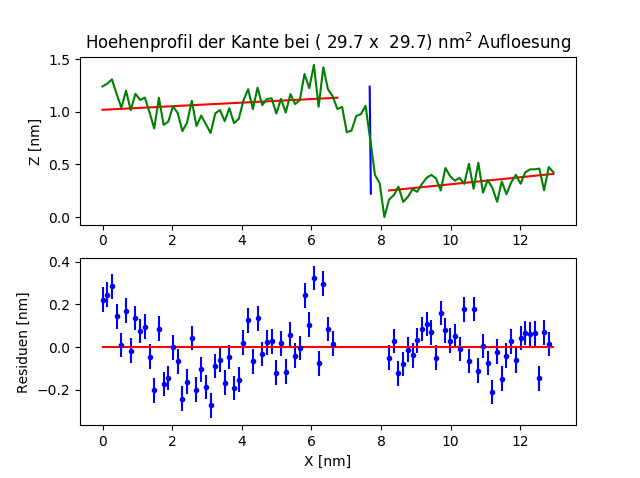
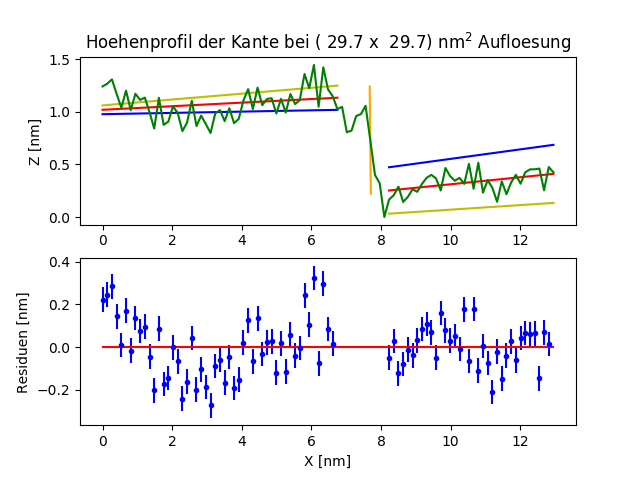
Kante Auswertung fertig

diff --git a/STM/Auswertung/Kante.py b/STM/Auswertung/Kante.py
@@ -23,7 +23,7 @@ for i in range(len(data_index)):
 
 #abgelesene Schätzwerte für die Position der Kante
 vor_kante_vor = [98, 50, 73, 58]
-nach_kante_vor = [111, 61, 92, 67]
+nach_kante_vor = [111, 61, 92, 86]
 vor_kante_nach = [93, 50, 74, 42]
 nach_kante_nach = [104, 60, 85, 68]
 
@@ -39,45 +39,55 @@ vor_sol_vor, nach_sol_vor, vor_sol_nach, nach_sol_nach = STMM.multi_lin_reg(data
 #die abgelesenen Kantenmittelpunkte geht
 a_k_nach = -1./nach_sol_nach[:,0]
 a_k_vor = -1./nach_sol_vor[:,0]
-sig_a_k_nach = a_k_nach * nach_sol_nach[:,1]/nach_sol_nach[:,0]
-sig_a_k_vor = a_k_vor * nach_sol_vor[:,1]/nach_sol_vor[:,0]
 b_k_nach = []
 b_k_vor = []
-sig_b_k_nach = []
-sig_b_k_vor = []
 for i in range(len(a_k_nach)):
     b_k_nach.append(data_nach[i][kante_nach[i]][1] - a_k_nach[i] * data_nach[i][kante_nach[i]][0])
     b_k_vor.append(data_vor[i][kante_vor[i]][1] - a_k_vor[i] * data_vor[i][kante_vor[i]][0])
-    sig_b_k_nach.append(np.sqrt(sig_y**2 + (a_k_nach[i] * sig_x)**2 + (data_nach[i][kante_nach[i]][0] * sig_a_k_nach[i])**2))
-    sig_b_k_vor.append(np.sqrt(sig_y**2 + (a_k_vor[i] * sig_x)**2 + (data_vor[i][kante_vor[i]][0] * sig_a_k_vor[i])**2))
 b_k_nach = np.array(b_k_nach)
 b_k_vor = np.array(b_k_vor)
-sig_b_k_nach = np.array(sig_b_k_nach)
-sig_b_k_vor = np.array(sig_b_k_vor)
 x1_nach = (b_k_nach - nach_sol_nach[:,2])/(nach_sol_nach[:,0] - a_k_nach)
 x2_nach = (b_k_nach - vor_sol_nach[:,2])/(vor_sol_nach[:,0] - a_k_nach)
 y1_nach = a_k_nach * x1_nach + b_k_nach
 y2_nach = a_k_nach * x2_nach + b_k_nach
-h_nach = np.sqrt((x1_nach - x2_nach)**2 + (y1_nach - y2_nach)**2)
-sig_x1_nach = np.sqrt((x1_nach * (np.sqrt(sig_b_k_nach**2 + nach_sol_nach[:,3]**2))/(b_k_nach - nach_sol_nach[:,2]))**2 + (np.sqrt(nach_sol_nach[:,1]**2 + sig_a_k_nach**2)/(nach_sol_nach[:,0] - a_k_nach))**2)
-sig_x2_nach = np.sqrt((x2_nach * (np.sqrt(sig_b_k_nach**2 + vor_sol_nach[:,3]**2))/(b_k_nach - vor_sol_nach[:,2]))**2 + (np.sqrt(vor_sol_nach[:,1]**2 + sig_a_k_nach**2)/(vor_sol_nach[:,0] - a_k_nach))**2)
-sig_y1_nach = np.sqrt(sig_b_k_nach**2 + (a_k_nach * sig_x1_nach)**2 + (sig_a_k_nach * x1_nach)**2)
-sig_y2_nach = np.sqrt(sig_b_k_nach**2 + (a_k_nach * sig_x2_nach)**2 + (sig_a_k_nach * x2_nach)**2)
-sig_h_nach = 1./h_nach * np.sqrt((sig_x1_nach * (x1_nach - x2_nach))**2 + (sig_x2_nach * (x1_nach - x2_nach))**2 + (sig_y1_nach * (y1_nach - y2_nach))**2 + (sig_y2_nach * (y1_nach - y2_nach))**2)
+h_nach_m = np.sqrt((x1_nach - x2_nach)**2 + (y1_nach - y2_nach)**2)
 
 x1_vor = (b_k_vor - nach_sol_vor[:,2])/(nach_sol_vor[:,0] - a_k_vor)
 x2_vor = (b_k_vor - vor_sol_vor[:,2])/(vor_sol_vor[:,0] - a_k_vor)
 y1_vor = a_k_vor * x1_vor + b_k_vor
 y2_vor = a_k_vor * x2_vor + b_k_vor
-h_vor = np.sqrt((x1_vor - x2_vor)**2 + (y1_vor - y2_vor)**2)
-sig_x1_vor = np.sqrt((x1_vor * (np.sqrt(sig_b_k_vor**2 + nach_sol_vor[:,3]**2))/(b_k_vor - nach_sol_vor[:,2]))**2 + (np.sqrt(nach_sol_vor[:,1]**2 + sig_a_k_vor**2)/(nach_sol_vor[:,0] - a_k_vor))**2)
-sig_x2_vor = np.sqrt((x2_vor * (np.sqrt(sig_b_k_vor**2 + vor_sol_vor[:,3]**2))/(b_k_vor - vor_sol_vor[:,2]))**2 + (np.sqrt(vor_sol_vor[:,1]**2 + sig_a_k_vor**2)/(vor_sol_vor[:,0] - a_k_vor))**2)
-sig_y1_vor = np.sqrt(sig_b_k_vor**2 + (a_k_vor * sig_x1_vor)**2 + (sig_a_k_vor * x1_vor)**2)
-sig_y2_vor = np.sqrt(sig_b_k_vor**2 + (a_k_vor * sig_x2_vor)**2 + (sig_a_k_vor * x2_vor)**2)
-sig_h_vor = 1./h_vor * np.sqrt((sig_x1_vor * (x1_vor - x2_vor))**2 + (sig_x2_vor * (x1_vor - x2_vor))**2 + (sig_y1_vor * (y1_vor - y2_vor))**2 + (sig_y2_vor * (y1_vor - y2_vor))**2)
+h_vor_m = np.sqrt((x1_vor - x2_vor)**2 + (y1_vor - y2_vor)**2)
+
+#Berechne Fehler mit Verschiebemethode
+h_nach = STMM.verschiebemethode(nach_sol_nach, vor_sol_nach, data_nach, kante_nach)
+h_vor = STMM.verschiebemethode(nach_sol_vor, vor_sol_vor, data_vor, kante_vor)
+max_h_nach_index = []
+min_h_nach_index = []
+max_h_vor_index = []
+min_h_vor_index = []
+for i in range(4):
+    max_h_nach_index_z = AM.getmax_1d(h_nach[:,i])
+    min_h_nach_index_z = AM.getmax_1d(-h_nach[:,i])
+    max_h_vor_index_z = AM.getmax_1d(h_vor[:,i])
+    min_h_vor_index_z = AM.getmax_1d(-h_vor[:,i])
+    max_h_nach_index.append(max_h_nach_index_z)
+    min_h_nach_index.append(min_h_nach_index_z)
+    max_h_vor_index.append(max_h_vor_index_z)
+    min_h_vor_index.append(min_h_vor_index_z)
+nach_st = [1, 1, -1, -1, 1, 1, -1, -1, 1, 1, -1, -1, 1, 1, -1, -1]
+vor_st = [1, -1, 1, -1, 1, -1, 1, -1, 1, -1, 1, -1, 1, -1, 1, -1]
+nach_ab = [1, 1, 1, 1, 1, 1, 1, 1, -1, -1, -1, -1, -1, -1, -1, -1]
+vor_ab = [1, 1, 1, 1, -1, -1, -1, -1, 1, 1, 1, 1, -1, -1, -1, -1]
+
+print 'h_nach:', h_nach_m, '\n'
+print 'h_nach_max:', h_nach[max_h_nach_index[0][0]][0], h_nach[max_h_nach_index[1][0]][1], h_nach[max_h_nach_index[2][0]][2], h_nach[max_h_nach_index[3][0]][3], '\n'
+print 'h_nach_min:', h_nach[min_h_nach_index[0][0]][0], h_nach[min_h_nach_index[1][0]][1], h_nach[min_h_nach_index[2][0]][2], h_nach[min_h_nach_index[3][0]][3], '\n'
+print 'h_vor:', h_vor_m, '\n'
+print 'h_vor_max:', h_vor[max_h_vor_index[0][0]][0], h_vor[max_h_vor_index[1][0]][1], h_vor[max_h_vor_index[2][0]][2], h_vor[max_h_vor_index[3][0]][3], '\n'
+print 'h_vor_min:', h_vor[min_h_vor_index[0][0]][0], h_vor[min_h_vor_index[1][0]][1], h_vor[min_h_vor_index[2][0]][2], h_vor[min_h_vor_index[3][0]][3]
 
 #Plotte Datensatz e für vor = 1 in Vorwaerts- und für vor = 0 in Rueckwaertsrichtung
-e = 3
+e = 0
 vor = 1
 if vor:
     plt.figure(1)
@@ -85,20 +95,25 @@ if vor:
     x_vor = np.array([data_vor[e][0][0], data_vor[e][vor_kante_vor[e]][0]])
     x_nach = np.array([data_vor[e][nach_kante_vor[e]][0], data_vor[e][-1][0]])
     plt.plot(x_vor, vor_sol_vor[e][0] * x_vor + vor_sol_vor[e][2], color = 'r')
+    #plt.plot(x_vor, (vor_sol_vor[e][0] + vor_sol_vor[e][1]) * x_vor + (vor_sol_vor[e][2] + vor_sol_vor[e][3]), color = 'r')
     plt.plot(x_nach, nach_sol_vor[e][0] * x_nach + nach_sol_vor[e][2], color = 'r')
+    plt.plot(x_vor, (vor_sol_vor[e][0] + vor_st[max_h_vor_index[e][0]] * vor_sol_vor[e][1]) * x_vor + (vor_sol_vor[e][2] + vor_ab[max_h_vor_index[e][0]] * vor_sol_vor[e][3]), color = 'y')
+    plt.plot(x_nach, (nach_sol_vor[e][0] + nach_st[max_h_vor_index[e][0]] * nach_sol_vor[e][1]) * x_nach + (nach_sol_vor[e][2] + nach_ab[max_h_vor_index[e][0]] * nach_sol_vor[e][3]), color = 'y')
+    plt.plot(x_vor, (vor_sol_vor[e][0] + vor_st[min_h_vor_index[e][0]] * vor_sol_vor[e][1]) * x_vor + (vor_sol_vor[e][2] + vor_ab[min_h_vor_index[e][0]] * vor_sol_vor[e][3]), color = 'b')
+    plt.plot(x_nach, (nach_sol_vor[e][0] + nach_st[min_h_vor_index[e][0]] * nach_sol_vor[e][1]) * x_nach + (nach_sol_vor[e][2] + nach_ab[min_h_vor_index[e][0]] * nach_sol_vor[e][3]), color = 'b')
     #plt.figtext(0.2,0.75,
     #            'a= '+ str(np.round(steigung[e],5)) + '\n'
     #            +'$\Sigma$= ' + str(np.round(abst[e], 5)))
     halbe_kantenbreite = [0.17, 0.017, 0.008, 0.025]
     x_h = np.array([data_vor[e][kante_vor[e]][0] - halbe_kantenbreite[e], data_vor[e][kante_vor[e]][0] + halbe_kantenbreite[e]])
-    plt.plot(x_h, a_k_vor[e] * x_h + b_k_vor[e], color = 'b')
+    plt.plot(x_h, a_k_vor[e] * x_h + b_k_vor[e], color = 'orange')
     plt.plot(data_vor[e][:,0], data_vor[e][:,1], color = 'g')
-    plt.xlabel('X [nm]')
     plt.ylabel('Z [nm]')
     plt.title('Hoehenprofil der Kante bei ({0:5.1f} x {0:5.1f}) nm$^2$ Aufloesung'.format(float(data_index[e]) / 10))
 
     ax2=plt.subplot(212,sharex=ax1)
     plt.ylabel('Residuen [nm]')
+    plt.xlabel('X [nm]')
     x_r = np.array([0, data_vor[e][-1][0]])
     y_r = np.array([0, 0])
     H_vor = np.full(vor_kante_vor[e], 0.5)
@@ -122,19 +137,23 @@ else:
     x_nach = np.array([data_nach[e][nach_kante_nach[e]][0], data_nach[e][-1][0]])
     plt.plot(x_vor, vor_sol_nach[e][0] * x_vor + vor_sol_nach[e][2], color = 'r')
     plt.plot(x_nach, nach_sol_nach[e][0] * x_nach + nach_sol_nach[e][2], color = 'r')
+    plt.plot(x_vor, (vor_sol_nach[e][0] + vor_st[max_h_nach_index[e][0]] * vor_sol_nach[e][1]) * x_vor + (vor_sol_nach[e][2] + vor_ab[max_h_nach_index[e][0]] * vor_sol_nach[e][3]), color = 'y')
+    plt.plot(x_nach, (nach_sol_nach[e][0] + nach_st[max_h_nach_index[e][0]] * nach_sol_nach[e][1]) * x_nach + (nach_sol_nach[e][2] + nach_ab[max_h_nach_index[e][0]] * nach_sol_nach[e][3]), color = 'y')
+    plt.plot(x_vor, (vor_sol_nach[e][0] + vor_st[min_h_nach_index[e][0]] * vor_sol_nach[e][1]) * x_vor + (vor_sol_nach[e][2] + vor_ab[min_h_nach_index[e][0]] * vor_sol_nach[e][3]), color = 'b')
+    plt.plot(x_nach, (nach_sol_nach[e][0] + nach_st[min_h_nach_index[e][0]] * nach_sol_nach[e][1]) * x_nach + (nach_sol_nach[e][2] + nach_ab[min_h_nach_index[e][0]] * nach_sol_nach[e][3]), color = 'b')
     #plt.figtext(0.2,0.75,
     #            'a= '+ str(np.round(steigung[e],5)) + '\n'
     #            +'$\Sigma$= ' + str(np.round(abst[e], 5)))
     halbe_kantenbreite = [0.15, 0.007, 0.0018, 0.05]
     x_h = np.array([data_nach[e][kante_nach[e]][0] - halbe_kantenbreite[e], data_nach[e][kante_nach[e]][0] + halbe_kantenbreite[e]])
-    plt.plot(x_h, a_k_nach[e] * x_h + b_k_nach[e], color = 'b')
+    plt.plot(x_h, a_k_nach[e] * x_h + b_k_nach[e], color = 'orange')
     plt.plot(data_nach[e][:,0], data_nach[e][:,1], color = 'g')
-    plt.xlabel('X [nm]')
     plt.ylabel('Z [nm]')
     plt.title('Hoehenprofil der Kante bei ({0:5.1f} x {0:5.1f}) nm$^2$ Aufloesung'.format(float(data_index[e]) / 10))
 
     ax2=plt.subplot(212,sharex=ax1)
     plt.ylabel('Residuen [nm]')
+    plt.xlabel('X [nm]')
     x_r = np.array([0, data_nach[e][-1][0]])
     y_r = np.array([0, 0])
     H_vor = np.full(vor_kante_nach[e], 0.5)

diff --git a/STM/Protokoll/Rastertunnel.tex b/STM/Protokoll/Rastertunnel.tex
@@ -57,12 +57,12 @@ Messpunkte pro Linie & 256 \\
 Sollwert Tunnelstrom & 1 nA \\
 \hline 
 \end{tabular} 
-\caption{Einstellungen der Messparameter bei Vermessung der Goldprobe. Bei dieser Messreihe wurde der IGain zwischen 1000 und 11000 verändert.}
+\caption{Einstellungen der Messparameter bei Vermessung der Goldprobe. Bei dieser Messreihe wurde der I-Gain zwischen 1000 und 11000 verändert.}
 \label{tab:IGain_Einstellungen}
 \end{table}
 
-Für die Untersuchung der Empfindlichkeit der Einstellparameter wird auf der Goldprobe zunächst ein Bereich mit markanter Struktur gesucht. Dieser Bereich wird für vier verschiedene Werte für den I-Gain bei ansonsten gleichbleibenden Parametern vermessen. Diese Einstellungen sind in Tabelle \ref{tab:IGain_Einstellungen} eingetragen.\\
-In einer zweiten Messreihe wird erneut ein Bereich mit markanter Struktur vermessen, wobei anstelle des I-Gain die Messzeit pro Zeile verändert wird. Für den I-Gain wurde hierbei der Wert, der sich in der ersten Messreihe als beste Annäherung des Idealwertes herausgestellt hat, verwendet (I-Gain = 3000). Alle anderen Parameter blieben unverändert.
+Für die Untersuchung der Empfindlichkeit der Einstellparameter wird auf der Goldprobe zunächst ein Bereich mit markanter Struktur gesucht. Dieser Bereich wird für vier verschiedene Werte für den I-Gain bei ansonsten gleichbleibenden Parametern vermessen. Diese Einstellungen sind in Tabelle \ref{tab:IGain_Einstellungen} eingetragen. Es wurden vier verschiedene Einstellungen für den I-Gain verwendet: $I_1 = 1000$, $I_2 = 3000$, $I_3 = 8000$ und $I_4 = 11000$.\\
+In einer zweiten Messreihe wird erneut ein Bereich mit markanter Struktur vermessen, wobei anstelle des I-Gain die Messzeit pro Zeile verändert wird. Für den I-Gain wurde hierbei der Wert, der sich in der ersten Messreihe als beste Annäherung des Idealwertes herausgestellt hat, verwendet (I-Gain = 3000). Alle anderen Parameter blieben unverändert. Es wurden sieben verschiedene Einstellungen für die Messzeit pro Zeile verwendet: $T_1 = \SI{52}{ms}$, $T_2 = \SI{80}{ms}$, $T_3 = \SI{100}{ms}$, $T_4 = \SI{200}{ms}$, $T_5 = \SI{400}{ms}$, $T_6 = \SI{600}{ms}$, $T_7 = \SI{2}{s}$.
 
 \subsection{Untersuchung von HOPG}
 \subsubsection{Vermessung einer Kante}
@@ -244,8 +244,89 @@ Bei der zweiten Messreihe mit Variation der Messzeit pro Zeile hat sich herausge
 \label{fig:Kante_Beispiel}
 \end{figure}
 
+\begin{table}
+\centering
+\begin{tabular}{|c|c|c|c|c|c|}
+\hline 
+Auflösung & Messrichtung & Steigung & Achsenabschnitt [nm] & $\chi ^2$/ndof \\ 
+\hline 
+$(\SI{13,2}{nm})^2$ & Vorwärts &  & & \\
+\hline 
+$(\SI{13,2}{nm})^2$ & Rückwärts &   & &\\
+\hline 
+$(\SI{29,7}{nm})^2$ & Vorwärts &  & &\\
+\hline 
+$(\SI{29,7}{nm})^2$ & Rückwärts &  & &\\
+\hline 
+$(\SI{64,4}{nm})^2$ & Vorwärts &  & &\\
+\hline 
+$(\SI{64,4}{nm})^2$ & Rückwärts &  & &\\
+\hline 
+$(\SI{126,9}{nm})^2$ & Vorwärts &  & &\\
+\hline 
+$(\SI{126,9}{nm})^2$ & Rückwärts &  & &\\
+\hline
+\end{tabular} 
+\caption{Ergebnisse der linearen Regressionen an Daten vor der Kante.}
+\label{tab:Kante_linreg_vor_Ergebnisse}
+\end{table}
+
+\begin{table}
+\centering
+\begin{tabular}{|c|c|c|c|c|c|}
+\hline 
+Auflösung & Messrichtung & Steigung & Achsenabschnitt [nm] & $\chi ^2$/ndof \\ 
+\hline 
+$(\SI{13,2}{nm})^2$ & Vorwärts &  & & \\
+\hline 
+$(\SI{13,2}{nm})^2$ & Rückwärts &   & &\\
+\hline 
+$(\SI{29,7}{nm})^2$ & Vorwärts &  & &\\
+\hline 
+$(\SI{29,7}{nm})^2$ & Rückwärts &  & &\\
+\hline 
+$(\SI{64,4}{nm})^2$ & Vorwärts &  & &\\
+\hline 
+$(\SI{64,4}{nm})^2$ & Rückwärts &  & &\\
+\hline 
+$(\SI{126,9}{nm})^2$ & Vorwärts &  & &\\
+\hline 
+$(\SI{126,9}{nm})^2$ & Rückwärts &  & &\\
+\hline 
+\end{tabular} 
+\caption{Ergebnisse der linearen Regressionen an Daten hinter der Kante.}
+\label{tab:Kante_linreg_nach_Ergebnisse}
+\end{table}
+
+\begin{table}
+\centering
+\begin{tabular}{|c|c|c|c|c|}
+\hline 
+Auflösung & Messrichtung & $x_k$ [nm] & $y_k$ [nm] \\ 
+\hline 
+$(\SI{13,2}{nm})^2$ & Vorwärts &  &  \\
+\hline 
+$(\SI{13,2}{nm})^2$ & Rückwärts &   & \\
+\hline 
+$(\SI{29,7}{nm})^2$ & Vorwärts &  & \\
+\hline 
+$(\SI{29,7}{nm})^2$ & Rückwärts &  & \\
+\hline 
+$(\SI{64,4}{nm})^2$ & Vorwärts &  & \\
+\hline 
+$(\SI{64,4}{nm})^2$ & Rückwärts &  & \\
+\hline 
+$(\SI{126,9}{nm})^2$ & Vorwärts &  & \\
+\hline 
+$(\SI{126,9}{nm})^2$ & Rückwärts &  & \\
+\hline 
+\end{tabular} 
+\caption{Abgelesene Kantenmittelpunkte.}
+\label{tab:Kantenmittelpunkte_Ergebnisse}
+\end{table}
+
 Auch bei der Vermessung der Kante wird ein Höhenprofil entnommen. Dabei muss darauf geachtet werden, dass das Höhenprofil möglichst senkrecht auf der Kante steht. Abbildung \ref{fig:Kante_Beispiel} zeigt dies beispielhaft für die Messung mit einem Messbereich von (\SI{13,2}{nm})$^2$.\\
-Zur Bestimmung der Kantenhöhe wird an den Bereich vor und hinter der Kante jeweils eine Gerade angepasst und deren Abstand bestimmt. Dieser Abstand wird bestimmt, indem eine Gerade konstruiert wird, die senkrecht auf der tiefer liegenden Gerade steht und durch den abgelesenen Mittelpunkt der Kante geht. Damit bestimmt sich die Geradengleichung dieser Gerade zu:
+Zur Bestimmung der Kantenhöhe wird an den Bereich vor und hinter der Kante jeweils eine Gerade angepasst und deren Abstand bestimmt. Dieser Abstand wird bestimmt, indem eine Gerade konstruiert wird, die senkrecht auf der tiefer liegenden Gerade steht und durch den abgelesenen Mittelpunkt der Kante geht. Der Mittelpunkt der Kante hat nur eine sehr kleine Auswirkung auf die Höhe, daher wird der Fehler auf diesen vernachlässigt. Um die Auswertung zu vereinfachen wurde hierfür ein realer Datenpunkt verwendet. Damit bestimmt sich die Geradengleichung dieser Gerade zu:
 \begin{equation*}
 y = \dfrac{-1}{a_{hinter}} \cdot x + y_k + \dfrac{x_k}{a_{hinter}}
 \end{equation*}
@@ -257,11 +338,39 @@ h = \sqrt{(\Delta x)^2 + (\Delta y)^2}
 \begin{figure}
 \centering
 \includegraphics[scale=0.6]{Bilder/Anhang/Kante/Profil_Kante_0132_vor.png}
-\caption{Entnommenes Höhenprofil (grün), angepasste Geraden (rot) und Kantengerade (blau) bei Vermessung der HOPG-Kante in einer Auflösung von (\SI{13,2}{nm})$^2$ in der Vorwärtsrichtung.}
+\caption{Entnommenes Höhenprofil (grün), angepasste Geraden (rot) und Kantengerade (orange) bei Vermessung der HOPG-Kante in einer Auflösung von (\SI{13,2}{nm})$^2$ in der Vorwärtsrichtung. In gelb sind die Verschiebungen der angepassten Geraden eingezeichnet, die die maximale Höhe ergeben haben, und in blau die, die die minimale Höhe ergeben haben. Die Residuen beziehen sich auf die vor bzw. hinter der Kante angepassten Geraden.}
 \label{fig:Kante_Hoehenprofil_Beispiel}
 \end{figure}
 
-Abbildung \ref{fig:Kante_Hoehenprofil_Beispiel} zeigt das Höhenprofil, die angepassten Geraden inclusive Residuen und die Kantengerade für die in Abbildung \ref{fig:Kante_Beispiel} gezeigte Messung.
+Für die Fehlerabschätzung werden Steigung und Achsenabschnitt der angepassten Geraden  um ihre Fehler variiert und mit jeder Variation die Kantenhöhe erneut ausgerechnet. Damit ergibt sich ein Bereich um den berechneten Wert, der den Fehler begrenzt. Die Werte für die Kantenhöhe mit ihren Fehlern sind in Tabelle \ref{tab:Kantenhöhe_Ergebnisse} dargestellt.\\
+Abbildung \ref{fig:Kante_Hoehenprofil_Beispiel} zeigt das Höhenprofil, die angepassten und verschobenen Geraden und die Kantengerade für die in Abbildung \ref{fig:Kante_Beispiel} gezeigte Messung.
+
+\begin{table}
+\centering
+\begin{tabular}{|c|c|c|}
+\hline 
+Auflösung & Messrichtung & Höhe [nm]\\ 
+\hline 
+$(\SI{13,2}{nm})^2$ & Vorwärts & $1,35 \pm 0,20$\\
+\hline 
+$(\SI{13,2}{nm})^2$ & Rückwärts & $1,49 \pm 0,19$\\
+\hline 
+$(\SI{29,7}{nm})^2$ & Vorwärts & $0,92 \pm 0,34$\\
+\hline 
+$(\SI{29,7}{nm})^2$ & Rückwärts & $0,83 \pm 0,29$\\
+\hline 
+$(\SI{64,4}{nm})^2$ & Vorwärts & $2,36 \pm 0,31$\\
+\hline 
+$(\SI{64,4}{nm})^2$ & Rückwärts & $2,02\pm 0,23$\\
+\hline 
+$(\SI{126,9}{nm})^2$ & Vorwärts & $3,58 \pm 0,76$\\
+\hline 
+$(\SI{126,9}{nm})^2$ & Rückwärts & $3,08 \pm 0,27$\\
+\hline
+\end{tabular} 
+\caption{Ergebnisse für die Kantenhöhe.}
+\label{tab:Kantenhöhe_Ergebnisse}
+\end{table}
 
 \subsubsection{Kalibration der Achsen}
 Um die Längenskalen in x- und y-Richtung möglichst unkorreliert kalibrieren zu können, kann nicht direkt der Atomabstand benutzt werden. Stattdessen wird der Abstand zwischen 2 Atomen bestimmt, die möglichst auf einer der beiden Achsen liegen. Dann wird über ein Dreieck entlang der Symmetrieachsen des Atomgitters die echte Länge dieses Abstandes bestimmt.\\

diff --git a/STM/Auswertung/STM_Methoden.py b/STM/Auswertung/STM_Methoden.py
@@ -146,3 +146,26 @@ def multi_lin_reg(data_nach, data_vor, vor_kante_vor, nach_kante_vor, vor_kante_
         vor_sol_nach.append(p.lineare_regression_xy(nach_data_vorkante[:,0], nach_data_vorkante[:,1], nach_std_x_vor, nach_std_y_vor))
         nach_sol_nach.append(p.lineare_regression_xy(nach_data_nachkante[:,0], nach_data_nachkante[:,1], nach_std_x_nach, nach_std_y_nach))
     return np.array(vor_sol_vor), np.array(nach_sol_vor), np.array(vor_sol_nach), np.array(nach_sol_nach)
+
+def verschiebemethode(nach_sol, vor_sol, data, kante):
+    h = []
+    nach_steigung_var = [1, 1, -1, -1, 1, 1, -1, -1, 1, 1, -1, -1, 1, 1, -1, -1]
+    vor_steigung_var = [1, -1, 1, -1, 1, -1, 1, -1, 1, -1, 1, -1, 1, -1, 1, -1]
+    nach_abschnitt_var = [1, 1, 1, 1, 1, 1, 1, 1, -1, -1, -1, -1, -1, -1, -1, -1]
+    vor_abschnitt_var = [1, 1, 1, 1, -1, -1, -1, -1, 1, 1, 1, 1, -1, -1, -1, -1]
+    for i in range(len(nach_steigung_var)):
+        a_nach = nach_sol[:,0] + nach_steigung_var[i] * nach_sol[:,1]
+        a_vor = vor_sol[:,0] + vor_steigung_var[i] * vor_sol[:,1]
+        b_nach = nach_sol[:,2] + nach_abschnitt_var[i] * nach_sol[:,3]
+        b_vor = vor_sol[:,2] + vor_abschnitt_var[i] * vor_sol[:,3]
+        a_k_nach = -1./a_nach
+        b_k = []
+        for i in range(len(a_k_nach)):
+            b_k.append(data[i][kante[i]][1] - a_k_nach[i] * data[i][kante[i]][0])
+        b_k = np.array(b_k)
+        x1_nach = (b_k - b_nach)/(a_nach - a_k_nach)
+        x2_nach = (b_k - b_vor)/(a_vor - a_k_nach)
+        y1_nach = a_k_nach * x1_nach + b_k
+        y2_nach = a_k_nach * x2_nach + b_k
+        h.append(np.sqrt((x1_nach - x2_nach)**2 + (y1_nach - y2_nach)**2))
+    return np.array(h)

diff --git a/STM/Auswertung/auswertung_nur_Methoden.py b/STM/Auswertung/auswertung_nur_Methoden.py
@@ -269,6 +269,19 @@ def getmax(x, y):
         max_index = int(sum(mem) / len(mem))
     return max_x, max_y, max_index
 
+def getmax_1d(x):
+    #Sucht den maximalen Wert aus 1d Daten raus und gibt Wert und Index zurück
+    #bei mehreren identischen Werten werden alle zurückgegeben
+    max_x = x[0]
+    max_index = [0]
+    for i in range(len(x)):
+        if x[i] > max_x:
+            max_x = x[i]
+            max_index = [i]
+        if x[i] == max_x:
+            max_index = [i]
+    return np.array(max_index)
+
 def Schnittpunkte(x, y1, y2):
     #gibt die Indizes der Stellen zurück, NACH denen ein Schnittpunkt zwischen den Daten von y1 
     #und y2 liegt
